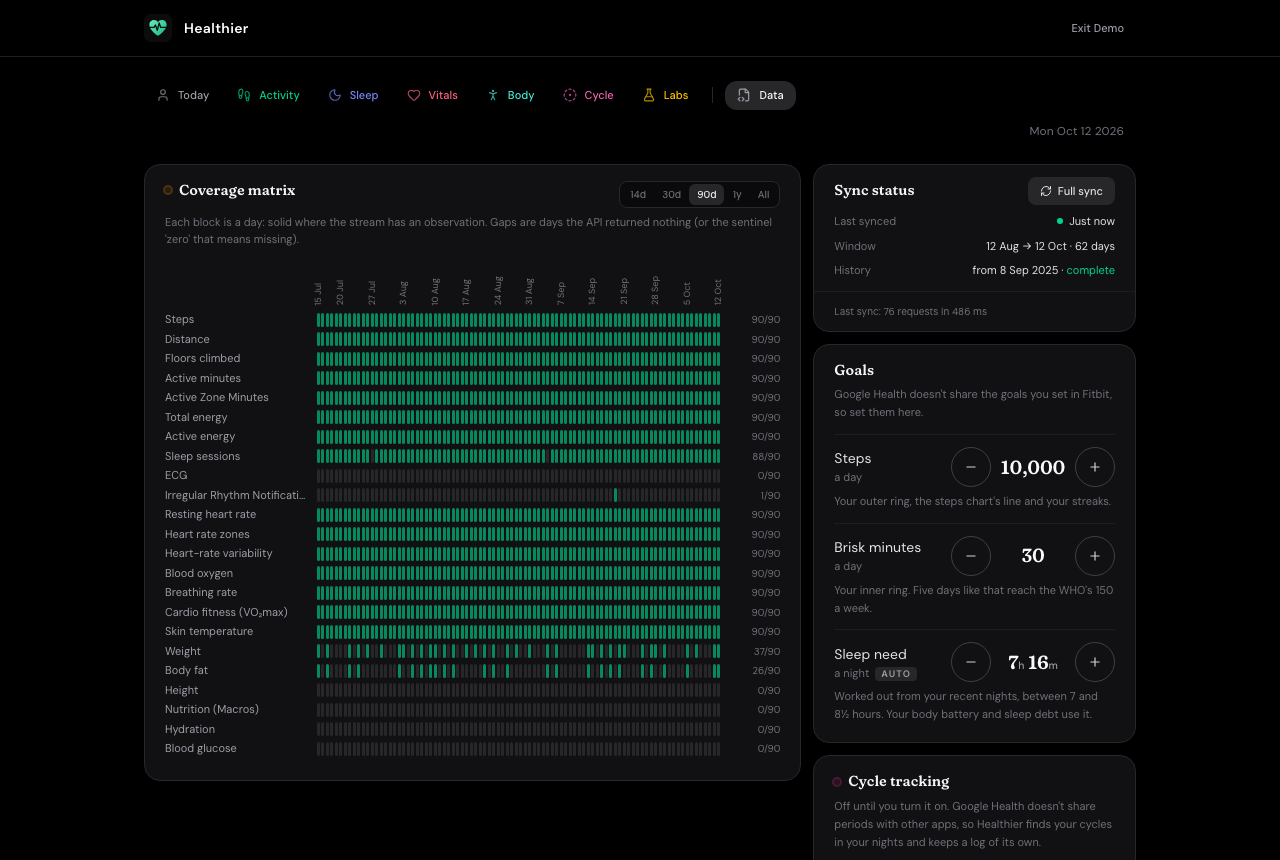
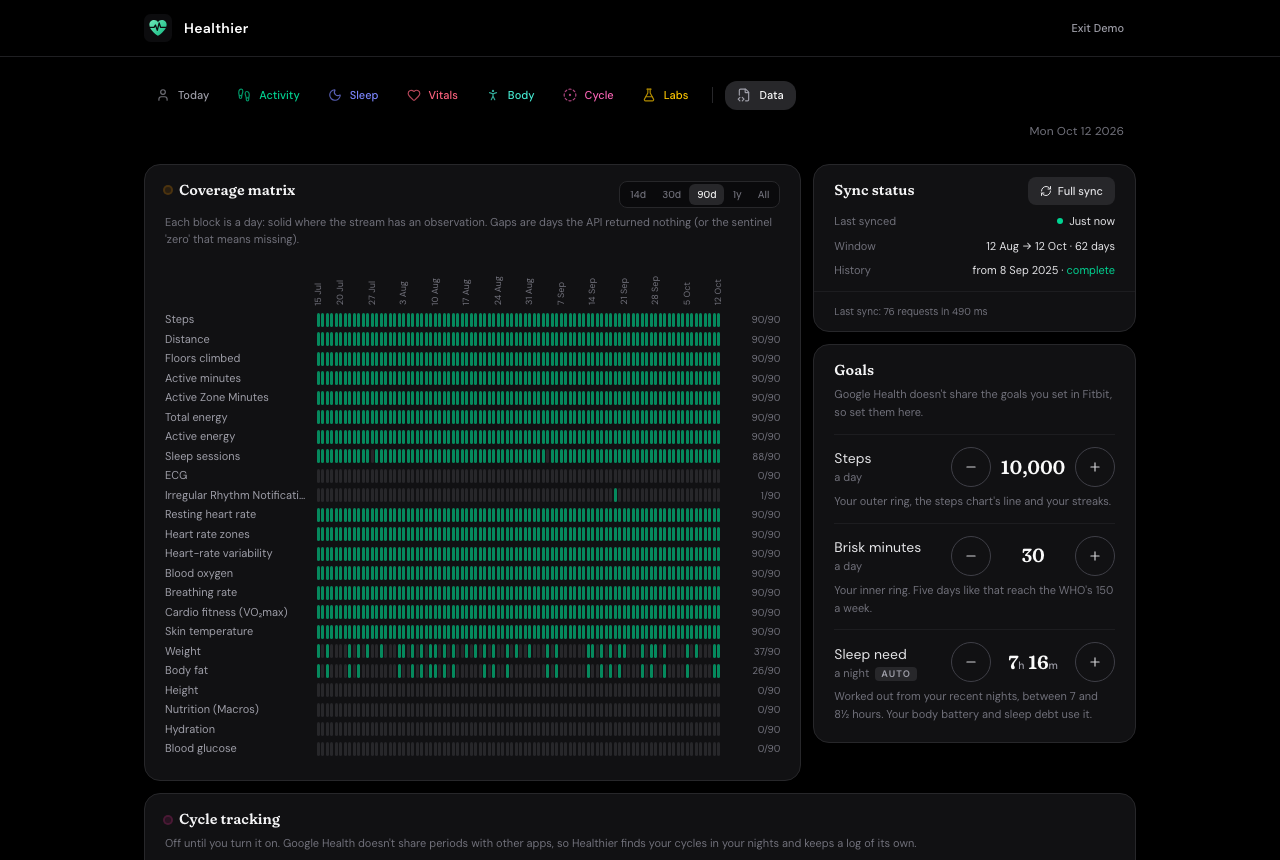
README: the Data page from #89's layout, and its switch for the other pages

Changed region(s): [[0.125, 0.907, 0.875, 0.9977]]

diff --git a/README.md b/README.md
@@ -86,7 +86,7 @@ place at a time: on Today while it matters, otherwise on its own page.
 <table>
   <tr>
     <td width="50%" valign="top"><img src="docs/screenshots/cycle.png" alt="The Cycle page: day 18, the next period as a range, and how it was reached"></td>
-    <td width="50%" valign="top"><b>Cycle.</b> For anyone who has periods, and off until it's turned on in Data. Healthier finds your cycles in your nightly temperature, resting heart rate and HRV, whether or not you log anything. It shows your body through the cycle and gives the next period as a range from your own cycles. Anything you log, kept encrypted on your own server, makes the cycles more certain. While it's on, the other pages allow for your cycle, so the usual rise in its second half isn't called unusual.</td>
+    <td width="50%" valign="top"><b>Cycle.</b> For anyone who has periods, and off until it's turned on in Data. Healthier finds your cycles in your nightly temperature, resting heart rate and HRV, whether or not you log anything. It shows your body through the cycle and gives the next period as a range from your own cycles. Anything you log, kept encrypted on your own server, makes the cycles more certain. While it's on, the other pages allow for your cycle, so the usual rise in its second half isn't called unusual, unless you turn that off in Data.</td>
   </tr>
 </table>
 
